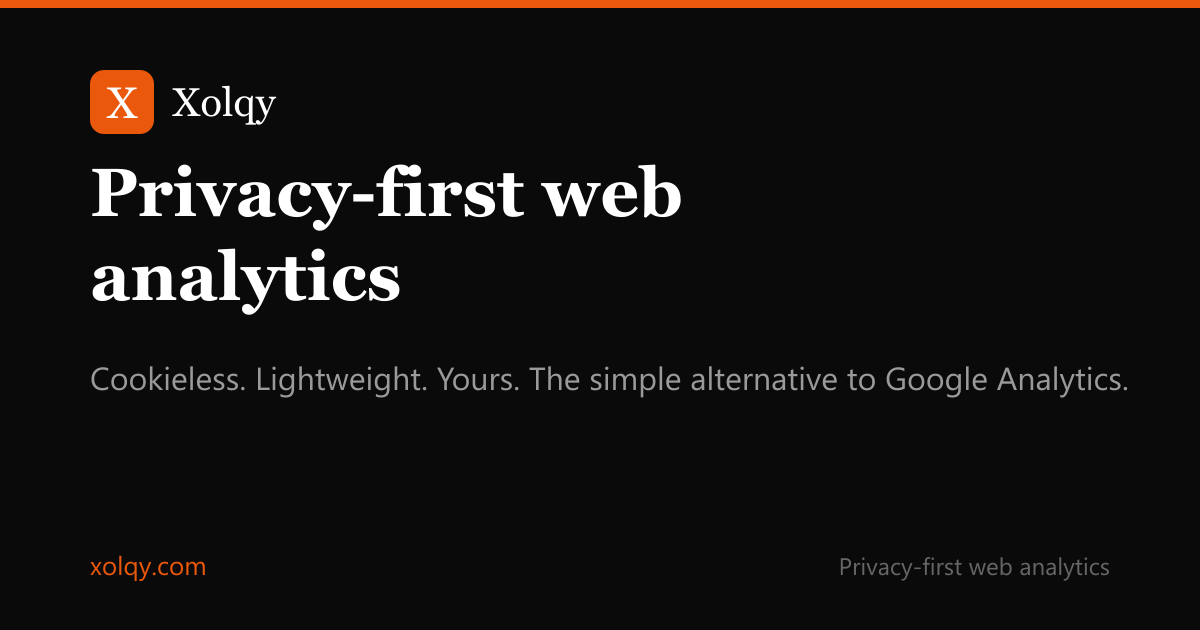
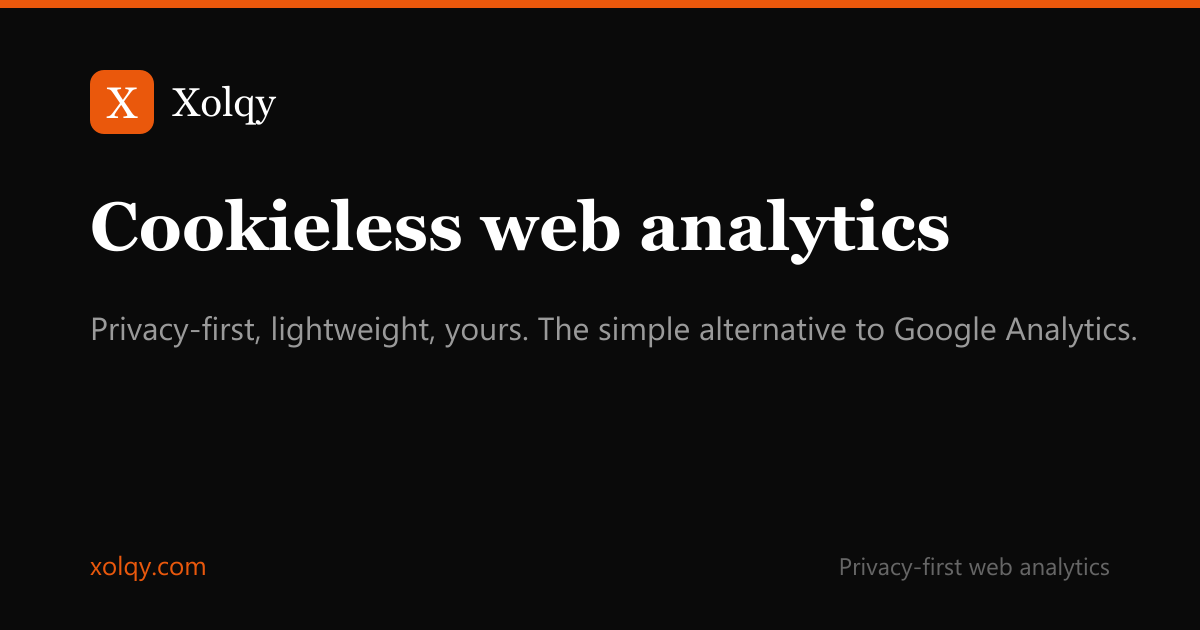
SEO: lead with "Cookieless", homepage FAQ + schema, sitemap lastmod
- Retitle landing to "Cookieless web analytics" (sharper keyword) + richer
  meta description and keywords
- Add homepage FAQ section with matching FAQPage JSON-LD
- Add <lastmod> to sitemap (pages = site date, posts = publish date)
- Regenerate home OG image to match new title

Changed region(s): [[0.0617, 0.2413, 0.9558, 0.5429], [0.0617, 0.573, 0.9558, 0.6333]]

diff --git a/src/site.ts b/src/site.ts
@@ -112,12 +112,13 @@ function headerHtml(): string {
 function shell(opts: {
   title: string; description: string; body: string;
   path: string; origin: string; ogSlug: string; ogType?: string;
-  jsonLd?: Record<string, unknown>[];
+  jsonLd?: Record<string, unknown>[]; keywords?: string;
 }): string {
   const title = `${opts.title} · Xolqy`;
   const desc = opts.description.replace(/"/g, '&quot;');
   const canonical = `${opts.origin}${opts.path}`;
   const ogImage = `${opts.origin}/og/${opts.ogSlug}.png`;
+  const keywordsTag = opts.keywords ? `\n  <meta name="keywords" content="${opts.keywords}" />` : '';
   // Base structured data on every page, plus any page-specific schema.
   const schema: Record<string, unknown>[] = [
     { '@context': 'https://schema.org', '@type': 'Organization', name: 'Xolqy', url: opts.origin, logo: `${opts.origin}/og/home.png`, sameAs: ['https://github.com/xolqy-com/xolqy'] },
@@ -131,7 +132,7 @@ function shell(opts: {
   <meta charset="utf-8" />
   <title>${title}</title>
   <meta name="viewport" content="width=device-width,initial-scale=1" />
-  <meta name="description" content="${desc}" />
+  <meta name="description" content="${desc}" />${keywordsTag}
   <link rel="canonical" href="${canonical}" />
   <meta property="og:site_name" content="Xolqy" />
   <meta property="og:title" content="${title}" />
@@ -187,15 +188,50 @@ const PINNED_INSTALL =
 // ----------------------------------------------------------------------------
 // Landing page
 export const LANDING_DESCRIPTION =
-  'Cookieless, GDPR-friendly, lightweight web analytics. Self-hostable on Cloudflare. Free to start.';
+  'Cookieless web analytics — a fast, GDPR-friendly alternative to Google Analytics with no cookies and no consent banner. <2KB script, scroll & engagement metrics, self-hostable on Cloudflare. Free up to 10k pageviews/mo.';
+
+const LANDING_KEYWORDS =
+  'cookieless analytics, cookieless web analytics, privacy-first analytics, google analytics alternative, GDPR analytics, no cookie banner, plausible alternative, self-hosted analytics, cloudflare analytics';
+
+// Homepage FAQ — single source for the visible section AND the FAQPage schema
+// (Google requires the answers to be visible on the page). These double as
+// quotable answers for AI assistants.
+type QA = [string, string];
+const HOME_FAQ: QA[] = [
+  ['Is Xolqy really cookieless?',
+   'Yes. Xolqy sets no cookies and stores no IP addresses. It counts daily unique visitors with a salted hash of IP + user-agent that rotates every midnight UTC, so nothing personal is stored.'],
+  ['Do I need a cookie consent banner?',
+   'For analytics, almost never. Because Xolqy uses no cookies and stores no personal data, most sites have no analytics reason for a consent banner. (Always confirm your own legal obligations.)'],
+  ['How does Xolqy count visitors without cookies?',
+   'It derives a short, daily-rotating salted hash on the server — enough to count unique visitors within a day, but useless for tracking anyone over time. The raw IP is never stored.'],
+  ['Is Xolqy GDPR compliant?',
+   'Xolqy is built privacy-first: no cookies, no IP storage, no cross-site tracking. Aggregate measurement relies on the site operator’s legitimate interest, and we publish a privacy policy, data policy, and DPA.'],
+  ['How is Xolqy different from Google Analytics?',
+   'It is far simpler and lighter: a <2KB cookieless script vs ~45KB, the numbers that matter on one screen instead of a reporting maze, no consent banner, and you can self-host so the data stays yours.'],
+  ['Is Xolqy free? Can I self-host it?',
+   'There is a free plan up to 10k pageviews/month, with paid tiers above that. Xolqy is also open source (AGPL) and runs on the Cloudflare free tier, so you can self-host it for free.'],
+];
+
+function faqSection(title: string, qa: QA[]): string {
+  const items = qa.map(([q, a]) => `<details class="faq-item"><summary>${q}</summary><p>${a}</p></details>`).join('');
+  return `<section class="prose faq"><h2>${title}</h2>${items}</section>`;
+}
+
+function faqSchema(qa: QA[]): Record<string, unknown> {
+  return {
+    '@context': 'https://schema.org',
+    '@type': 'FAQPage',
+    mainEntity: qa.map(([q, a]) => ({ '@type': 'Question', name: q, acceptedAnswer: { '@type': 'Answer', text: a } })),
+  };
+}
 
 function landingBody(): string {
   return `
   <main class="landing-main">
     <section class="hero">
       <div class="hero-mark">X</div>
-      <h1>Privacy-first web analytics</h1>
-      <p class="hero-sub">Cookieless. Lightweight. Yours. The simple, GDPR-friendly alternative to Google Analytics — built on Cloudflare's global edge.</p>
+      <h1>Cookieless web analytics</h1>
+      <p class="hero-sub">Privacy-first, lightweight, and yours. The simple, GDPR-friendly alternative to Google Analytics — no cookies, no consent banner, built on Cloudflare's global edge.</p>
       <div class="hero-cta">
         <a class="btn-primary lg" href="/login">Get started free</a>
         <a class="btn-ghost lg" href="/vs-google-analytics">Why switch from GA?</a>
@@ -211,6 +247,7 @@ function landingBody(): string {
       <div class="feat"><b>Multi-site.</b> One account, every domain you own — or a super-admin view across all of them.</div>
       <div class="feat"><b>Yours.</b> Self-host on your own Cloudflare account, or let us run it. Your data stays your data.</div>
     </section>
+    <div class="page"><div class="page-inner">${faqSection('Frequently asked questions', HOME_FAQ)}</div></div>
     ${pageBody(cta('Ready to see your traffic the simple way?'))}
   </main>`;
 }
@@ -249,8 +286,9 @@ function pricingFaqSchema(): Record<string, unknown> {
 
 export function renderLanding(origin: string): string {
   return shell({
-    title: 'Privacy-first web analytics', description: LANDING_DESCRIPTION, body: landingBody(),
-    path: '/', origin, ogSlug: 'home', jsonLd: [softwareAppSchema(origin)],
+    title: 'Cookieless web analytics', description: LANDING_DESCRIPTION, body: landingBody(),
+    path: '/', origin, ogSlug: 'home', keywords: LANDING_KEYWORDS,
+    jsonLd: [softwareAppSchema(origin), faqSchema(HOME_FAQ)],
   });
 }
 
@@ -920,8 +958,19 @@ export function allPaths(): string[] {
   return ['/', ...Object.keys(PAGES).map((s) => `/${s}`), ...Object.keys(POSTS).map((s) => `/blog/${s}`)];
 }
 
+// Site-wide last-modified for static pages. Bump when the site changes
+// materially; blog posts use their own publish date.
+const SITE_LASTMOD = '2026-06-02';
+
 export function sitemapXml(origin: string): string {
-  const urls = allPaths().map((p) => `  <url><loc>${origin}${p}</loc></url>`).join('\n');
+  const entries: { loc: string; lastmod: string }[] = [
+    { loc: '/', lastmod: SITE_LASTMOD },
+    ...Object.keys(PAGES).map((s) => ({ loc: `/${s}`, lastmod: SITE_LASTMOD })),
+    ...Object.entries(POSTS).map(([s, p]) => ({ loc: `/blog/${s}`, lastmod: p.iso })),
+  ];
+  const urls = entries
+    .map((e) => `  <url><loc>${origin}${e.loc}</loc><lastmod>${e.lastmod}</lastmod></url>`)
+    .join('\n');
   return `<?xml version="1.0" encoding="UTF-8"?>
 <urlset xmlns="http://www.sitemaps.org/schemas/sitemap/0.9">
 ${urls}

diff --git a/public/dashboard.css b/public/dashboard.css
@@ -177,6 +177,21 @@ a:hover { text-decoration: underline; }
 .status-row .dot { width: 10px; height: 10px; border-radius: 50%; background: var(--muted); }
 .status-row .dot.ok { background: #22c55e; }
 
+/* ---------- FAQ (homepage) ---------- */
+.faq { margin-top: 2rem; }
+.faq-item {
+  border: 1px solid var(--line); border-radius: 8px; background: var(--card);
+  padding: 0 1rem; margin-bottom: 0.6rem;
+}
+.faq-item summary {
+  cursor: pointer; padding: 0.9rem 0; font-weight: 600; list-style: none;
+  display: flex; justify-content: space-between; align-items: center; gap: 1rem;
+}
+.faq-item summary::-webkit-details-marker { display: none; }
+.faq-item summary::after { content: '+'; color: var(--accent); font-size: 1.3rem; line-height: 1; }
+.faq-item[open] summary::after { content: '−'; }
+.faq-item p { color: #cfcfcf; margin: 0 0 1rem; }
+
 /* ---------- Site footer ---------- */
 .site-footer { border-top: 1px solid var(--line); margin-top: 4rem; padding: 3rem 1.5rem 2rem; }
 .footer-inner {
